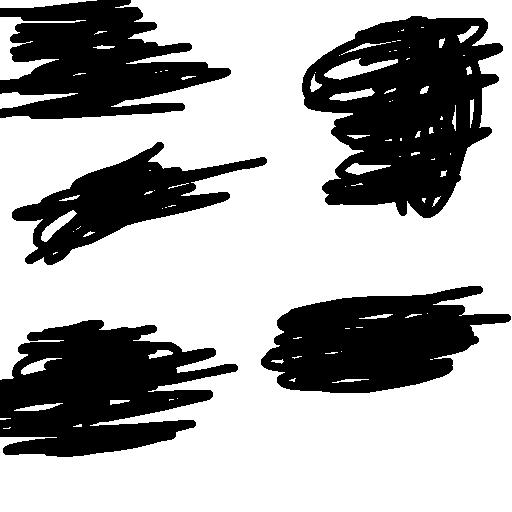
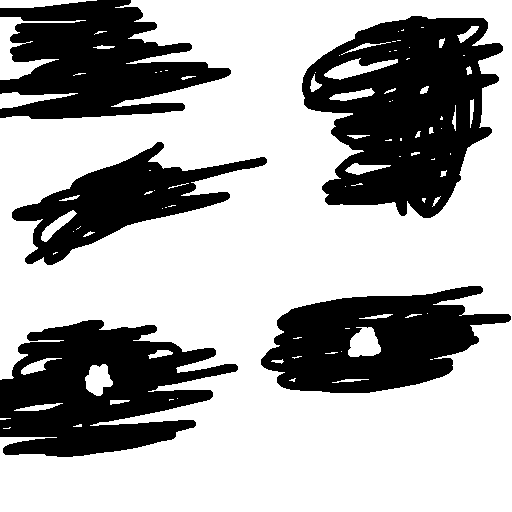
boundary of invalid check optimization

Changed region(s): [[0.6562, 0.625, 0.75, 0.7188], [0.1562, 0.6875, 0.2188, 0.7812]]

diff --git a/source/algorithm/quadtree/Quadtree.cpp b/source/algorithm/quadtree/Quadtree.cpp
@@ -1,8 +1,5 @@
-#include <iostream>
 
-#include <cstdlib>
 #include <cstdint>
-#include <cmath>
 #include <raylib.h>
 #include <sys/types.h>
 #include <vector>
@@ -53,9 +50,45 @@ uint64_t Quadtree::GetAdjacentQuadrant(uint64_t locationCode, uint64_t direction
 }
 
 
+// Check if there is a border of invalids
+bool Quadtree::BorderCheck(const GridEnvironment& grid, const int x, const int y, const int width, const int height) {
+    for (int i = x; i < x + width; ++i) {
+        if (grid.IsValid(y * grid.GetWidth() + i)) {
+            return false;
+        }
+    }
+
+    for (int i = x; i < x + width; ++i) {
+        if (grid.IsValid((y + height - 1) * grid.GetWidth() + i)) {
+            return false;
+        }
+    }
+
+    for (int i = y; i < y + height; ++i) {
+        if (grid.IsValid(i * grid.GetWidth() + x)) {
+            return false;
+        }
+    }
+
+    for (int i = y; i < y + height; ++i) {
+        if (grid.IsValid(i * grid.GetWidth() + (x + width - 1))) {
+            return false;
+        }
+    }
+
+
+    return true;
+}
+
+
 Region Quadtree::BuildRegion(const GridEnvironment& grid, const int x, const int y, const int width, const int height) {
     if (width <= 1) {
         return grid.IsValid(y * grid.GetWidth() + x) ? Region::Block : Region::Valid;
+    }
+
+    if (this->BorderCheck(grid, x, y, width, height)) {
+        // TODO: check if the region is covering the start / end
+        return Region::Block;
     }
 
     int midX, midY;

diff --git a/source/Main.cpp b/source/Main.cpp
@@ -13,7 +13,7 @@ Texture2D texture;
 // Main loop initialization
 void Init() {
     //SetConfigFlags(FLAG_WINDOW_UNDECORATED);
-    //SetTargetFPS(30);
+    SetTargetFPS(30);
     InitWindow(WINDOW_W, WINDOW_H, WINDOW_N);
     
     Renderer::Init();
@@ -24,7 +24,7 @@ void Init() {
 
     Color *pixels = LoadImageColors(image);
     for (int i = 0; i < image.width * image.height; ++i) {
-        grid.SetValid(i, pixels[i].b == 255);
+        grid.SetValid(i, pixels[i].b > 0);
     }
 
     texture = LoadTextureFromImage(image);

diff --git a/include/Quadtree.hpp b/include/Quadtree.hpp
@@ -92,4 +92,6 @@ private:
     uint64_t GetAdjacentQuadrant(uint64_t locationCode, uint64_t direction, int level);
     Region BuildRegion(const GridEnvironment& grid, const int x, const int y, const int width, const int height);
     uint64_t Interleave(uint32_t x, uint32_t y);
+    bool BorderCheck(const GridEnvironment& grid, const int x, const int y, const int width, const int height);
+
 };

diff --git a/include/GridEnvironment.hpp b/include/GridEnvironment.hpp
@@ -3,6 +3,8 @@
 #include <cstddef>
 #include <vector>
 
+#include <iostream>
+
 class GridEnvironment {
 
 public:
@@ -23,6 +25,7 @@ public:
         if (i < grid.size()) {
             return grid[i];
         }
+        std::cout << i << std::endl;
         return false;
     }
 
